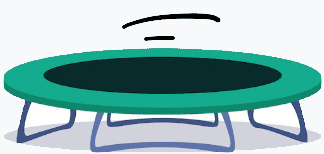
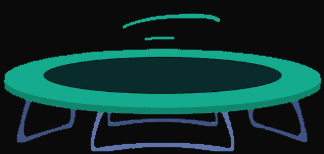
Video autoplay bug on mobile fixed with control buttons; jump animation added.

diff --git a/styles.css b/styles.css
@@ -494,6 +494,49 @@ button {
     pointer-events: none;
 }
 
+.hero-video-container {
+    position: relative;
+}
+
+.video-controls {
+    position: absolute;
+    right: 16px;
+    bottom: 16px;
+    display: flex;
+    gap: 10px;
+    z-index: 10;
+}
+
+.video-btn {
+    width: 44px;
+    height: 44px;
+    border: 1px solid rgba(255,255,255,0.2);
+    border-radius: 50%;
+
+    background: rgba(255,255,255,0.15);
+    backdrop-filter: blur(10px);
+    -webkit-backdrop-filter: blur(10px);
+
+    color: white;
+    font-size: 18px;
+    cursor: pointer;
+
+    display: flex;
+    align-items: center;
+    justify-content: center;
+
+    transition: all .25s ease;
+}
+
+.video-btn:hover {
+    background: rgba(255,255,255,0.25);
+    transform: scale(1.08);
+}
+
+.video-btn:active {
+    transform: scale(0.95);
+}
+
 .hero-scroll {
     position: absolute;
     bottom: 2rem;
@@ -727,8 +770,9 @@ button {
 }
 
 .gallery-wrapper {
+    width: 100%;
     max-width: 900px;
-    margin: 0 auto;
+    margin: 0;
 }
 
 .gallery-container {
@@ -811,6 +855,39 @@ button {
 .gallery-dot.active {
     background: var(--color-primary);
     box-shadow: var(--glow-primary);
+}
+
+/* Jumping Kid Animation */
+.gallery-jump {
+    width: 100%;
+    display: flex;
+    justify-content: center;
+    padding-left: 1.5rem;
+    padding-right: 1.5rem;
+}
+
+.jump {
+    position: relative;
+    text-align: -webkit-center;
+    padding: 50px 0px 0px 1.5rem;
+}
+
+.nino {
+    margin-bottom: 71px;
+    position: -webkit-sticky;
+    position: sticky;
+    top: 100px;
+    bottom: 0px;
+    right: 20px;
+}
+
+.tramp {
+    margin-top: 122px;
+    position: -webkit-sticky;
+    position: sticky;
+    top: 75vh;
+    bottom: 30px;
+    right: 20px;
 }
 
 /* ========================================
@@ -1359,6 +1436,16 @@ button {
     
     .gallery-slider {
         height: 350px;
+    }
+
+    .gallery-jump {
+        display: block;
+        padding-left: 1.5rem;
+        padding-right: 1.5rem;
+    }
+
+    .jump {
+        padding: 50px 0px 0px 0px;
     }
     
     .testimonials-grid {

diff --git a/index.html b/index.html
@@ -109,9 +109,20 @@
             </div>
             <div class="hero-visual">
                 <div class="hero-video-container">
-                    <video class="hero-video" autoplay loop muted playsinline>
+                    <video id="heroVideo" class="hero-video" autoplay loop muted playsinline>
                         <source src="img/Hero.mp4" type="video/mp4">
                     </video>
+
+                    <div class="video-controls">
+                        <button id="playBtn" class="video-btn" aria-label="Play/Pause">
+                            ⏸
+                        </button>
+
+                        <button id="muteBtn" class="video-btn" aria-label="Mute/Unmute">
+                            🔇
+                        </button>
+                    </div>
+
                     <div class="hero-video-border"></div>
                 </div>
             </div>
@@ -278,44 +289,52 @@
 
     <!-- Galeria Section -->
     <section id="galeria" class="section galeria">
-        <div class="container">
+        <div class="container-gallery">
             <div class="section-header">
                 <span class="section-badge">Galeria</span>
                 <h2 class="section-title">Momentos que Capturamos</h2>
                 <p class="section-subtitle">Cada evento es una historia de alegría y diversión. Aqui puedes ver algunos de nuestros mejores momentos.</p>
             </div>
 
-            <div class="gallery-wrapper" data-aos="fade-up">
-                <div class="gallery-container">
-                    <div class="gallery-slider" id="gallery-slider">
-                        <div class="gallery-slide active"><img src="./galeria/1.jpg" alt="Galería 1" loading="lazy"></div>
-                        <div class="gallery-slide"><img src="./galeria/2.jpg" alt="Galería 2" loading="lazy"></div>
-                        <div class="gallery-slide"><img src="./galeria/3.jpg" alt="Galería 3" loading="lazy"></div>
-                        <div class="gallery-slide"><img src="./galeria/4.jpg" alt="Galería 4" loading="lazy"></div>
-                        <div class="gallery-slide"><img src="./galeria/5.jpg" alt="Galería 5" loading="lazy"></div>
-                        <div class="gallery-slide"><img src="./galeria/6.jpg" alt="Galería 6" loading="lazy"></div>
-                        <div class="gallery-slide"><img src="./galeria/7.jpg" alt="Galería 7" loading="lazy"></div>
-                        <div class="gallery-slide"><img src="./galeria/8.jpg" alt="Galería 8" loading="lazy"></div>
-                        <div class="gallery-slide"><img src="./galeria/9.jpg" alt="Galería 9" loading="lazy"></div>
-                        <div class="gallery-slide"><img src="./galeria/10.jpg" alt="Galería 10" loading="lazy"></div>
-                        <div class="gallery-slide"><img src="./galeria/11.jpg" alt="Galería 11" loading="lazy"></div>
-                        <div class="gallery-slide"><img src="./galeria/12.jpg" alt="Galería 12" loading="lazy"></div>
-                        <div class="gallery-slide"><img src="./galeria/13.jpg" alt="Galería 13" loading="lazy"></div>
-                        <div class="gallery-slide"><img src="./galeria/14.jpg" alt="Galería 14" loading="lazy"></div>
-                        <div class="gallery-slide"><img src="./galeria/15.jpg" alt="Galería 15" loading="lazy"></div>
-                        <div class="gallery-slide"><img src="./galeria/16.jpg" alt="Galería 16" loading="lazy"></div>
-                        <div class="gallery-slide"><img src="./galeria/17.jpg" alt="Galería 17" loading="lazy"></div>
-                        <div class="gallery-slide"><img src="./galeria/18.jpg" alt="Galería 18" loading="lazy"></div>
-                        <div class="gallery-slide"><img src="./galeria/19.jpg" alt="Galería 19" loading="lazy"></div>
+            <div class="gallery-jump">
+                <div class="gallery-wrapper" data-aos="fade-up">
+                    <div class="gallery-container">
+                        <div class="gallery-slider" id="gallery-slider">
+                            <div class="gallery-slide active"><img src="./galeria/1.jpg" alt="Galería 1" loading="lazy"></div>
+                            <div class="gallery-slide"><img src="./galeria/2.jpg" alt="Galería 2" loading="lazy"></div>
+                            <div class="gallery-slide"><img src="./galeria/3.jpg" alt="Galería 3" loading="lazy"></div>
+                            <div class="gallery-slide"><img src="./galeria/4.jpg" alt="Galería 4" loading="lazy"></div>
+                            <div class="gallery-slide"><img src="./galeria/5.jpg" alt="Galería 5" loading="lazy"></div>
+                            <div class="gallery-slide"><img src="./galeria/6.jpg" alt="Galería 6" loading="lazy"></div>
+                            <div class="gallery-slide"><img src="./galeria/7.jpg" alt="Galería 7" loading="lazy"></div>
+                            <div class="gallery-slide"><img src="./galeria/8.jpg" alt="Galería 8" loading="lazy"></div>
+                            <div class="gallery-slide"><img src="./galeria/9.jpg" alt="Galería 9" loading="lazy"></div>
+                            <div class="gallery-slide"><img src="./galeria/10.jpg" alt="Galería 10" loading="lazy"></div>
+                            <div class="gallery-slide"><img src="./galeria/11.jpg" alt="Galería 11" loading="lazy"></div>
+                            <div class="gallery-slide"><img src="./galeria/12.jpg" alt="Galería 12" loading="lazy"></div>
+                            <div class="gallery-slide"><img src="./galeria/13.jpg" alt="Galería 13" loading="lazy"></div>
+                            <div class="gallery-slide"><img src="./galeria/14.jpg" alt="Galería 14" loading="lazy"></div>
+                            <div class="gallery-slide"><img src="./galeria/15.jpg" alt="Galería 15" loading="lazy"></div>
+                            <div class="gallery-slide"><img src="./galeria/16.jpg" alt="Galería 16" loading="lazy"></div>
+                            <div class="gallery-slide"><img src="./galeria/17.jpg" alt="Galería 17" loading="lazy"></div>
+                            <div class="gallery-slide"><img src="./galeria/18.jpg" alt="Galería 18" loading="lazy"></div>
+                            <div class="gallery-slide"><img src="./galeria/19.jpg" alt="Galería 19" loading="lazy"></div>
+                        </div>
+                        <button class="gallery-btn gallery-btn-prev" onclick="changeSlide(-1)" aria-label="Previous">
+                            <svg xmlns="http://www.w3.org/2000/svg" width="24" height="24" viewBox="0 0 24 24" fill="none" stroke="currentColor" stroke-width="2" stroke-linecap="round" stroke-linejoin="round"><path d="m15 18-6-6 6-6"/></svg>
+                        </button>
+                        <button class="gallery-btn gallery-btn-next" onclick="changeSlide(1)" aria-label="Next">
+                            <svg xmlns="http://www.w3.org/2000/svg" width="24" height="24" viewBox="0 0 24 24" fill="none" stroke="currentColor" stroke-width="2" stroke-linecap="round" stroke-linejoin="round"><path d="m9 18 6-6-6-6"/></svg>
+                        </button>
                     </div>
-                    <button class="gallery-btn gallery-btn-prev" onclick="changeSlide(-1)" aria-label="Previous">
-                        <svg xmlns="http://www.w3.org/2000/svg" width="24" height="24" viewBox="0 0 24 24" fill="none" stroke="currentColor" stroke-width="2" stroke-linecap="round" stroke-linejoin="round"><path d="m15 18-6-6 6-6"/></svg>
-                    </button>
-                    <button class="gallery-btn gallery-btn-next" onclick="changeSlide(1)" aria-label="Next">
-                        <svg xmlns="http://www.w3.org/2000/svg" width="24" height="24" viewBox="0 0 24 24" fill="none" stroke="currentColor" stroke-width="2" stroke-linecap="round" stroke-linejoin="round"><path d="m9 18 6-6-6-6"/></svg>
-                    </button>
+                    <div class="gallery-dots" id="gallery-dots"></div>
                 </div>
-                <div class="gallery-dots" id="gallery-dots"></div>
+                
+                <div class="jump">
+                    <img class="nino" src="img/nino.jpg" width="60px" alt="boy jumping">
+                    <br/>
+                    <img class="tramp" src="img/trampolin.png" width="150px" alt="boy jumping">
+                </div>
             </div>
         </div>
     </section>

diff --git a/script.js b/script.js
@@ -5,6 +5,28 @@ const hamburger = document.getElementById('hamburger');
 const navMenu = document.getElementById('nav-menu');
 const nav = document.getElementById('nav');
 
+const video = document.getElementById('heroVideo');
+const playBtn = document.getElementById('playBtn');
+const muteBtn = document.getElementById('muteBtn');
+
+playBtn.addEventListener('click', () => {
+    if (video.paused) {
+        video.play();
+        playBtn.textContent = '⏸';
+    } else {
+        video.pause();
+        playBtn.textContent = '▶';
+    }
+});
+
+muteBtn.addEventListener('click', () => {
+    video.muted = !video.muted;
+
+    muteBtn.textContent = video.muted
+        ? '🔇'
+        : '🔊';
+});
+
 hamburger.addEventListener('click', () => {
     hamburger.classList.toggle('active');
     navMenu.classList.toggle('active');